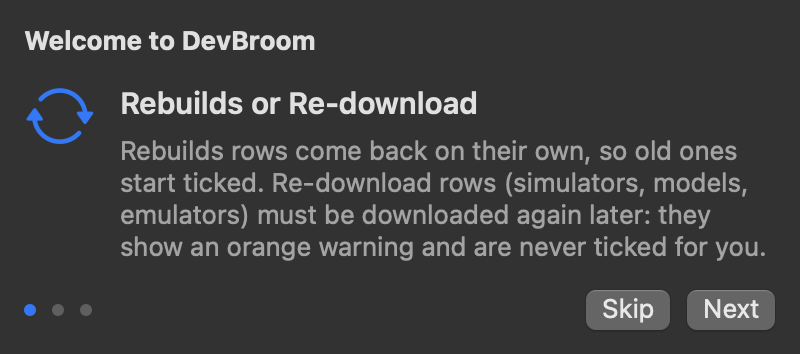
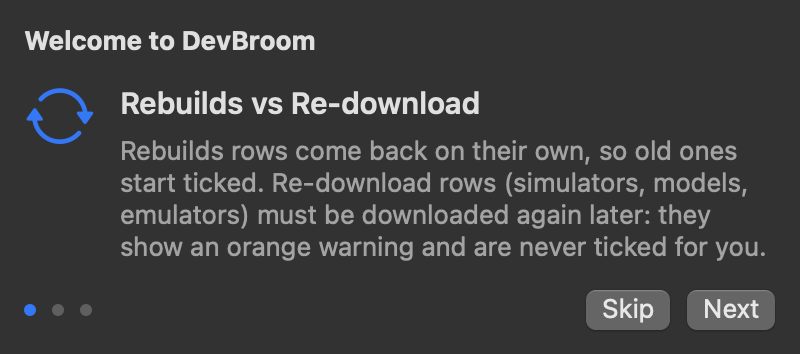
fix: list only real folders in the new rows, home-aware Gradle rule, tighter emulator rule, accurate guide text

Changed region(s): [[0.3125, 0.2486, 0.625, 0.3418]]

diff --git a/Sources/DevBroomCore/RemovalGuard.swift b/Sources/DevBroomCore/RemovalGuard.swift
@@ -12,16 +12,25 @@ public struct RemovalGuard: Sendable {
         let hub: [String]
         let extensionFolders: [[String]]
         let lmStudio: [[String]]
+        /// Newer category folders: only non-hidden direct children (no .DS_Store and the like).
+        let strictFolders: [[String]]
+        let avd: [String]
 
-        enum Match { case no, other, build }
+        enum Match { case no, other, build, avd }
 
         func match(_ p: [String]) -> Match {
             // Never inside an app bundle (e.g. VS Code's bundled node_modules).
             if p.contains(where: { $0.lowercased().hasSuffix(".app") }) { return .no }
             if p.count >= 2, extensionFolders.contains(Array(p.dropLast())) { return .other }
             if exact.contains(p) { return .other }
-            // LM Studio: <models>/<publisher>/<model>.
-            if lmStudio.contains(where: { p.count == $0.count + 2 && p.starts(with: $0) }) { return .other }
+            let hidden = p.last?.hasPrefix(".") ?? true
+            // LM Studio: <models>/<publisher>/<model>, neither hidden.
+            if lmStudio.contains(where: { p.count == $0.count + 2 && p.starts(with: $0) }) {
+                return hidden || p[p.count - 2].hasPrefix(".") ? .no : .other
+            }
+            if strictFolders.contains(where: { p.count == $0.count + 1 && p.starts(with: $0) }) { return hidden ? .no : .other }
+            // Android emulators: checked on disk in allows() (<name>.avd folder or <name>.ini file).
+            if p.count == avd.count + 1, p.starts(with: avd) { return hidden ? .no : .avd }
             if categoryFolders.contains(where: { p.count == $0.count + 1 && p.starts(with: $0) }) { return .other }
             guard let last = p.last, p.count >= 2 else { return .no }
             let isModel = last.hasPrefix("models--") || last.hasPrefix("datasets--")
@@ -44,20 +53,23 @@ public struct RemovalGuard: Sendable {
         }
     }
 
+    private let home: URL
     private let plain: Rules
     private let resolved: Rules
 
     public init(locations: Locations, scanRoots: [URL]) {
         func make(_ f: (URL) -> [String]) -> Rules {
             Rules(home: f(locations.home),
-                  categoryFolders: ([locations.caches, locations.derivedData, locations.wallpaperVideos,
-                                     locations.androidAVDs, locations.androidSystemImages]
-                    + locations.deviceSupportFolders + locations.xcodeExtras.map(\.url)).map(f),
+                  categoryFolders: ([locations.caches, locations.derivedData, locations.wallpaperVideos]
+                    + locations.deviceSupportFolders).map(f),
                   exact: (locations.packageCaches.map(\.url) + [locations.ollamaModels]).map(f),
                   scanRoots: scanRoots.map(f), hub: f(locations.huggingFaceHub),
                   extensionFolders: locations.editorExtensions.map { f($0.url) },
-                  lmStudio: locations.lmStudioModels.map(f))
+                  lmStudio: locations.lmStudioModels.map(f),
+                  strictFolders: ([locations.androidSystemImages] + locations.xcodeExtras.map(\.url)).map(f),
+                  avd: f(locations.androidAVDs))
         }
+        home = locations.home
         plain = make { $0.standardizedFileURL.pathComponents }
         resolved = make { $0.resolvingSymlinksInPath().pathComponents }
         editorExtensionFolders = locations.editorExtensions.map { $0.url.standardizedFileURL.pathComponents }
@@ -72,7 +84,11 @@ public struct RemovalGuard: Sendable {
         guard a != .no, b != .no else { return false }
         if isEditorExtensionChild(url) { return removableExtensionFolders(in: url.deletingLastPathComponent()).contains(url.lastPathComponent) }
         if a == .build || b == .build {
-            return buildEcosystem(of: url.standardizedFileURL) != nil && !gitTracks(url)
+            return buildEcosystem(of: url.standardizedFileURL, home: home) != nil && !gitTracks(url)
+        }
+        if a == .avd || b == .avd {
+            let isDir = (try? url.resourceValues(forKeys: [.isDirectoryKey]))?.isDirectory == true
+            return (url.pathExtension == "avd" && isDir) || (url.pathExtension == "ini" && !isDir)
         }
         return true
     }

diff --git a/Sources/DevBroomCore/Cleaner.swift b/Sources/DevBroomCore/Cleaner.swift
@@ -86,9 +86,10 @@ public struct Cleaner: Sendable {
     public func clean(_ items: [CleanItem], progress: (Int, Int) -> Void) async -> CleanReport {
         var report = CleanReport()
         for (i, item) in items.enumerated() {
-            let (outcome, landed) = await remove(item)
+            let (outcome, landed, note) = await remove(item)
             report.outcomes[item.id] = outcome
-            if let landed { report.trashedItems.append(TrashedItem(url: landed, bytes: item.sizeBytes)) }
+            for (i, u) in landed.enumerated() { report.trashedItems.append(TrashedItem(url: u, bytes: i == 0 ? item.sizeBytes : 0)) }
+            if let note { report.failures.append((item.name, note)) }
             switch outcome {
             case .trashed(let b): report.trashedBytes += b
             case .deleted(let b): report.deletedBytes += b
@@ -100,29 +101,33 @@ public struct Cleaner: Sendable {
         return report
     }
 
-    /// The outcome, plus where a trashed item ended up.
-    private func remove(_ item: CleanItem) async -> (ItemOutcome, URL?) {
+    /// The outcome, where trashed things ended up (the item first), and a note for a partial problem.
+    private func remove(_ item: CleanItem) async -> (ItemOutcome, [URL], String?) {
         switch item.method {
         case .trash(let url):
-            guard FileManager.default.fileExists(atPath: url.path) else { return (.alreadyGone, nil) }
-            guard removalGuard.allows(url) else { return (.failed("Refused by safety guard"), nil) }
-            do {
-                let landed = try trash(url)
-                // An Android emulator is `<name>.avd` plus `<name>.ini`; leaving the .ini would show a broken emulator.
-                if url.pathExtension == "avd" {
-                    let ini = url.deletingPathExtension().appendingPathExtension("ini")
-                    if FileManager.default.fileExists(atPath: ini.path), removalGuard.allows(ini) { _ = try? trash(ini) }
+            guard FileManager.default.fileExists(atPath: url.path) else { return (.alreadyGone, [], nil) }
+            guard removalGuard.allows(url) else { return (.failed("Refused by safety guard"), [], nil) }
+            let landed: URL?
+            do { landed = try trash(url) } catch { return (.failed(error.localizedDescription), [], nil) }
+            var all = landed.map { [$0] } ?? []
+            var note: String?
+            // An Android emulator is `<name>.avd` plus `<name>.ini`; leaving the .ini would show a broken emulator.
+            let avdFolder = Locations(home: home).androidAVDs.standardizedFileURL.path
+            if url.pathExtension == "avd", url.deletingLastPathComponent().standardizedFileURL.path == avdFolder {
+                let ini = url.deletingPathExtension().appendingPathExtension("ini")
+                if FileManager.default.fileExists(atPath: ini.path) {
+                    if removalGuard.allows(ini), let i = try? trash(ini) { all.append(i) }
+                    else { note = "\(ini.lastPathComponent) was left behind; delete the emulator in Android Studio" }
                 }
-                return (.trashed(bytes: item.sizeBytes), landed)
             }
-            catch { return (.failed(error.localizedDescription), nil) }
+            return (.trashed(bytes: item.sizeBytes), all, note)
         case .simctlDevice(let udid):
-            return (await run(ToolLocator.xcrun, ["simctl", "delete", udid], item), nil)
+            return (await run(ToolLocator.xcrun, ["simctl", "delete", udid], item), [], nil)
         case .simctlRuntime(let id):
-            return (await run(ToolLocator.xcrun, ["simctl", "runtime", "delete", id], item), nil)
+            return (await run(ToolLocator.xcrun, ["simctl", "runtime", "delete", id], item), [], nil)
         case .dockerPrune:
-            guard let docker = ToolLocator.docker(home: home) else { return (.failed("Docker not found"), nil) }
-            return (await run(docker, ["system", "prune", "-a", "-f"], item), nil)
+            guard let docker = ToolLocator.docker(home: home) else { return (.failed("Docker not found"), [], nil) }
+            return (await run(docker, ["system", "prune", "-a", "-f"], item), [], nil)
         }
     }
 

diff --git a/Sources/DevBroomCore/FileScanners.swift b/Sources/DevBroomCore/FileScanners.swift
@@ -57,7 +57,7 @@ public struct FileScanners: Sendable {
     public func xcodeExtras() throws -> CategoryResult {
         var items: [CleanItem] = []
         for (label, folder) in locations.xcodeExtras {
-            for u in try children(folder) {
+            for u in try children(folder) where isVisibleFolder(u) {
                 items.append(try makeItem(.xcodeExtras, u, name: "\(label): \(u.lastPathComponent)", detail: abbreviate(folder.standardizedFileURL.path)))
             }
         }
@@ -67,10 +67,14 @@ public struct FileScanners: Sendable {
     /// Emulators (`<name>.avd`; its `<name>.ini` goes to the Trash with it) and SDK system images per Android version.
     public func androidEmulators() throws -> CategoryResult {
         var items: [CleanItem] = []
-        for u in try children(locations.androidAVDs) where u.pathExtension == "avd" {
-            items.append(try makeItem(.androidEmulators, u, name: u.deletingPathExtension().lastPathComponent, detail: "Emulator"))
+        for u in try children(locations.androidAVDs) where u.pathExtension == "avd" && isVisibleFolder(u) {
+            var it = try makeItem(.androidEmulators, u, name: u.deletingPathExtension().lastPathComponent, detail: "Emulator")
+            // A running emulator holds *.lock files in its folder.
+            let names = (try? FileManager.default.contentsOfDirectory(atPath: u.path)) ?? []
+            if names.contains(where: { $0.hasSuffix(".lock") }) { it.tags.insert(.inUse) }
+            items.append(it)
         }
-        for u in try children(locations.androidSystemImages) {
+        for u in try children(locations.androidSystemImages) where isVisibleFolder(u) {
             items.append(try makeItem(.androidEmulators, u, name: "System image \(u.lastPathComponent)", detail: abbreviate(u.standardizedFileURL.path)))
         }
         return result(.androidEmulators, items)
@@ -135,7 +139,7 @@ public struct FileScanners: Sendable {
                       v.isDirectory == true, v.isSymbolicLink != true else { continue }
                 let name = u.lastPathComponent
                 if packageCachePaths.contains(u.standardizedFileURL.path) { en.skipDescendants(); continue }
-                if projectBuildFolderNames.contains(name), let eco = buildEcosystem(of: u) {
+                if projectBuildFolderNames.contains(name), let eco = buildEcosystem(of: u, home: locations.home) {
                     // Git-tracked candidates are not listed but are walked into like any other folder (spec 4.2).
                     if !tracked(u) {
                         en.skipDescendants()
@@ -174,8 +178,9 @@ public struct FileScanners: Sendable {
             if seen.insert(m.standardizedFileURL.path).inserted { models.append(try modelItem(m)) }
         }
         for root in locations.lmStudioModels {
-            for publisher in try children(root) {
-                for m in try children(publisher) where seen.insert(m.standardizedFileURL.path).inserted {
+            for publisher in try children(root) where isVisibleFolder(publisher) {
+                // Resolved path: an old LM Studio folder may be a link to the new one; list each model once.
+                for m in try children(publisher) where isVisibleFolder(m) && seen.insert(m.resolvingSymlinksInPath().path).inserted {
                     models.append(try makeItem(.aiModels, m, name: "\(publisher.lastPathComponent)/\(m.lastPathComponent)",
                                                detail: "LM Studio"))
                 }
@@ -210,6 +215,10 @@ public struct FileScanners: Sendable {
     // MARK: helpers
 
     private func exists(_ u: URL) -> Bool { FileManager.default.fileExists(atPath: u.path) }
+
+    private func isVisibleFolder(_ u: URL) -> Bool {
+        !u.lastPathComponent.hasPrefix(".") && (try? u.resourceValues(forKeys: [.isDirectoryKey]))?.isDirectory == true
+    }
 
     private func children(_ dir: URL) throws -> [URL] {
         guard exists(dir) else { return [] }

diff --git a/Tests/DevBroomCoreTests/FileScannersTests.swift b/Tests/DevBroomCoreTests/FileScannersTests.swift
@@ -169,6 +169,32 @@ final class FileScannersTests: XCTestCase {
         XCTAssertEqual(projects[1].items.map(\.name), ["s · SwiftPM .build"])
     }
 
+    func testV032ScannersSkipFilesHiddenEntriesAndFlagRunningEmulators() throws {
+        let h = try TempHome()
+        try h.make("Library/Developer/XCPGDevices/device_set.plist"); try h.make("Library/Developer/XCPGDevices/.DS_Store")
+        try h.make("Library/Developer/XCPGDevices/ABC/data")
+        try h.make(".lmstudio/models/pub/.DS_Store"); try h.make(".lmstudio/models/pub/m/w.gguf")
+        try h.make("Library/Android/sdk/system-images/.DS_Store")
+        try h.make(".android/avd/Run.avd/multiinstance.lock"); try h.make(".android/avd/Run.ini")
+        let sc = scanners(h)
+        XCTAssertEqual(try sc.xcodeExtras().items.map(\.name), ["SwiftUI previews: ABC"])
+        XCTAssertEqual(try sc.projects()[2].items.map(\.name), ["pub/m"])
+        let emus = try sc.androidEmulators().items
+        XCTAssertEqual(emus.map(\.name), ["Run"])
+        XCTAssertTrue(emus[0].tags.contains(.inUse))
+    }
+
+    func testWalkFindsWebAndGradleBuildFolders() throws {
+        let h = try TempHome()
+        try h.make("web/package.json"); try h.make("web/.next/x"); try h.make("web/.turbo/x"); try h.make("web/.parcel-cache/x")
+        try h.make("and/settings.gradle"); try h.make("and/.gradle/x")
+        try h.make("settings.gradle"); try h.make(".gradle/caches/x")  // Gradle's own cache in home: never a project build
+        try h.make("sw/Package.swift"); try h.make("sw/.build/checkouts/dep/Package.swift"); try h.make("sw/.build/checkouts/dep/.build/x")
+        let names = Set(try scanners(h).projects()[1].items.map(\.name))
+        XCTAssertEqual(names, ["web · JavaScript .next", "web · JavaScript .turbo", "web · JavaScript .parcel-cache",
+                               "and · Android .gradle", "sw · SwiftPM .build"])
+    }
+
     func testProjectWalkFindsBuildsAndKeepsNodeModules() throws {
         let h = try TempHome()
         try hmosProject(h)

diff --git a/Sources/DevBroom/GuideView.swift b/Sources/DevBroom/GuideView.swift
@@ -7,10 +7,10 @@ struct GuideView: View {
     @State private var page = 0
 
     private var cards: [(symbol: String, title: String, text: String)] { [
-        ("arrow.triangle.2.circlepath", "Rebuilds or Re-download",
+        ("arrow.triangle.2.circlepath", "Rebuilds vs Re-download",
          "Rebuilds rows come back on their own, so old ones start ticked. Re-download rows (simulators, models, emulators) must be downloaded again later: they show an orange warning and are never ticked for you."),
-        ("trash", "Everything goes to the Trash first",
-         "Clean moves items to the Trash, so you can put them back. To get the space now, press Delete from Trash now after a clean: it deletes only what DevBroom just moved."),
+        ("trash", "Most things go to the Trash first",
+         "Clean moves most items to the Trash, so you can put them back. Simulators and Docker are removed for good, and DevBroom asks again first. To get Trash space back now, press Delete from Trash now after a clean: it deletes only what DevBroom just moved."),
         ("clock", "Recent work is left alone",
          "Anything used in the last \(recentDays) days starts unticked and is tagged recently used. Right-click an item to reveal it in Finder or hide it from DevBroom."),
     ] }

diff --git a/Sources/DevBroomCore/ProjectRules.swift b/Sources/DevBroomCore/ProjectRules.swift
@@ -14,7 +14,7 @@ private func exists(_ url: URL, _ name: String) -> Bool {
 }
 
 /// Spec 4.2 marker table. Markers live in the folder's parent (for `.venv`: inside the folder).
-public func buildEcosystem(of folder: URL) -> Ecosystem? {
+public func buildEcosystem(of folder: URL, home: URL? = nil) -> Ecosystem? {
     let parent = folder.deletingLastPathComponent()
     switch folder.lastPathComponent {
     case "build":
@@ -31,7 +31,8 @@ public func buildEcosystem(of folder: URL) -> Ecosystem? {
     case ".next", ".turbo", ".parcel-cache": return exists(parent, "package.json") ? .web : nil
     case ".gradle":
         // ~/.gradle is Gradle's own cache (listed under package caches), never a project folder.
-        if parent.standardizedFileURL.path == FileManager.default.homeDirectoryForCurrentUser.standardizedFileURL.path { return nil }
+        let homePath = (home ?? FileManager.default.homeDirectoryForCurrentUser).standardizedFileURL.path
+        if parent.standardizedFileURL.path == homePath { return nil }
         let markers = ["build.gradle", "build.gradle.kts", "settings.gradle", "settings.gradle.kts"]
         return markers.contains { exists(parent, $0) } ? .gradle : nil
     default: return nil

diff --git a/Tests/DevBroomCoreTests/ProjectRulesTests.swift b/Tests/DevBroomCoreTests/ProjectRulesTests.swift
@@ -40,8 +40,13 @@ struct ProjectRulesTests {
         for p in ["n/.build", "n/.next", "n/.turbo", "n/.parcel-cache", "n/.gradle"] {
             #expect(buildEcosystem(of: try h.dir(p)) == nil, "\(p)")
         }
-        // Gradle's own ~/.gradle is never a project build folder.
-        #expect(buildEcosystem(of: FileManager.default.homeDirectoryForCurrentUser.appending(path: ".gradle")) == nil)
+        // Gradle's own ~/.gradle is never a project build folder, even with a Gradle file in home.
+        let home = try TempHome()
+        try home.make("settings.gradle"); try home.dir(".gradle/caches")
+        #expect(buildEcosystem(of: home.url.appending(path: ".gradle"), home: home.url) == nil)
+        #expect(buildEcosystem(of: home.url.appending(path: ".gradle")) == .gradle)  // without the home it would count
+        let g = RemovalGuard(locations: Locations(home: home.url), scanRoots: [home.url])
+        #expect(!g.allows(home.url.appending(path: ".gradle")))
     }
 
     @Test func missingMarkerIsNil() throws {

diff --git a/Tests/DevBroomCoreTests/RemovalGuardTests.swift b/Tests/DevBroomCoreTests/RemovalGuardTests.swift
@@ -77,6 +77,14 @@ struct RemovalGuardTests {
         }
         try h.make(".android/avd/Pixel_8.ini")
         #expect(g.allows(u(".android/avd/Pixel_8.ini")))
+        // Hidden entries and anything that isn't an emulator folder or .ini file are refused.
+        try h.make(".android/avd/notes.txt"); try h.make(".android/avd/fake.avd"); try h.dir(".android/avd/odd.ini")
+        try h.make("Library/Developer/XCPGDevices/.DS_Store"); try h.make(".lmstudio/models/pub/.DS_Store")
+        try h.dir(".lmstudio/models/.hidden/m")
+        for p in [".android/avd/notes.txt", ".android/avd/fake.avd", ".android/avd/odd.ini",
+                  "Library/Developer/XCPGDevices/.DS_Store", ".lmstudio/models/pub/.DS_Store", ".lmstudio/models/.hidden/m"] {
+            #expect(!g.allows(u(p)), "\(p)")
+        }
         try h.dir(".ollama/models/blobs")
         #expect(g.allows(u(".ollama/models")))
         // Refused: the folders themselves, wrong depths, unmarked dot folders, Ollama's insides.

diff --git a/Tests/DevBroomCoreTests/CleanerTests.swift b/Tests/DevBroomCoreTests/CleanerTests.swift
@@ -118,6 +118,14 @@ private func cleanItem(_ id: String, _ method: RemovalMethod, bytes: Int64 = 100
         #expect(!FileManager.default.fileExists(atPath: avd.path) && !FileManager.default.fileExists(atPath: ini.path))
     }
 
+    @Test func iniOutsideTheAvdFolderIsLeftAlone() async throws {
+        let cache = try h.make("Library/Caches/x.avd/f").deletingLastPathComponent()
+        let ini = try h.make("Library/Caches/x.ini")
+        let r = await cleaner.clean([cleanItem("c", .trash(cache))]) { _, _ in }
+        #expect(r.outcomes["c"] == .trashed(bytes: 100))
+        #expect(FileManager.default.fileExists(atPath: ini.path))
+    }
+
     @Test func trashesPathWithSpaces() async throws {
         let d = try h.make("Library/Developer/Xcode/iOS DeviceSupport/18.1 (22B83)/f").deletingLastPathComponent()
         let r = await cleaner.clean([cleanItem("a", .trash(d))]) { _, _ in }

diff --git a/Sources/DevBroom/SettingsView.swift b/Sources/DevBroom/SettingsView.swift
@@ -45,7 +45,7 @@ struct SettingsView: View {
             Section {
                 Button("Show guide again") { settings.guideSeen = false }
             } footer: {
-                Text("Shows the three welcome cards the next time you open the panel.").font(.caption).foregroundStyle(.secondary)
+                Text("Shows the three welcome cards again in the panel.").font(.caption).foregroundStyle(.secondary)
             }
             Section {
                 Toggle("Launch at login", isOn: $settings.launchAtLogin).disabled(!isBundled)

diff --git a/README.md b/README.md
@@ -74,7 +74,6 @@ Each row is one of two kinds:
 |---|---|---|
 | `node_modules` | Rebuilds | Trash |
 | Project builds: HarmonyOS `build`, `oh_modules`, `.hvigor` · Android/Gradle `build`, `.gradle` · Flutter `build` · Xcode `build` · SwiftPM `.build` · Rust `target` · Python `.venv` · Next.js `.next`, Turborepo `.turbo`, Parcel `.parcel-cache` | Rebuilds | Trash |
-| Android emulators (`~/.android/avd`) and SDK system images | Re-download | Trash |
 
 ### Caches and downloads
 
@@ -83,7 +82,8 @@ Each row is one of two kinds:
 | Package caches: npm, Yarn, pnpm, pip, uv, Homebrew, CocoaPods, Gradle, Gradle wrapper, Cargo, Go modules, Bun | Rebuilds | Trash |
 | Package caches: Maven, Dart/Flutter | Re-download | Trash |
 | App caches (`~/Library/Caches`) | Rebuilds | Trash |
-| AI model downloads: Hugging Face models and datasets, LM Studio models, Ollama models (all together) | Re-download | Trash |
+| AI model downloads: Hugging Face models and datasets, LM Studio models (one item per model), Ollama models (one item for all of them) | Re-download | Trash |
+| Android emulators (`~/.android/avd`) and SDK system images | Re-download | Trash |
 | Old VS Code and Cursor extension versions | Rebuilds | Trash |
 | Docker images, build cache and stopped containers | Re-download | `docker system prune -a -f`, permanent (volumes are never touched) |
 
